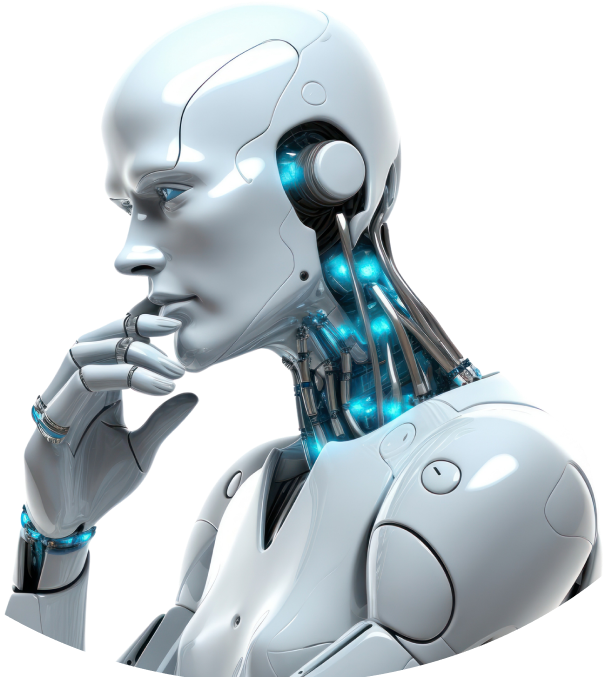
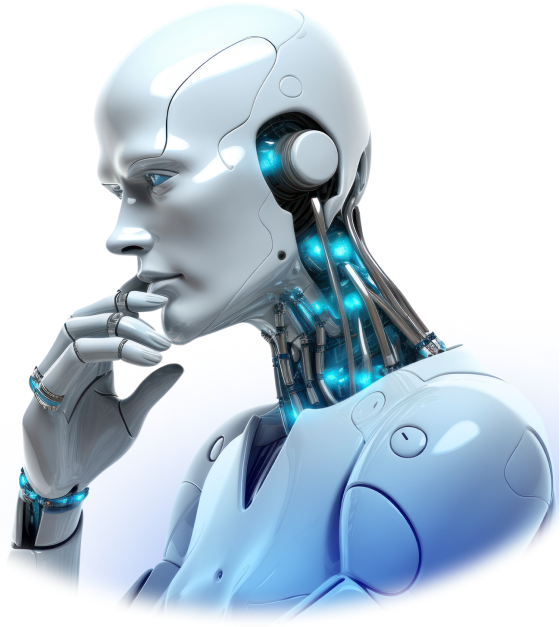
add section featutes fix hero

diff --git a/src/components/Hero.jsx b/src/components/Hero.jsx
@@ -1,28 +1,24 @@
-import CycleButton from "./CycleButton";
+import Button from "./Button";
+
 
 const Hero = () => {
   return (
-    <section id="home" className="relative">
-      <div className="absolute size-[500px] blur-[500px] bg-[#175CE5] top-[180px]" />
-      <div className="absolute size-[500px] blur-[500px] bg-[#FA00D2] top-[130px] left-[25%]" />
-      <div className="container py-16">
-        <div className="flex items-center  h-[50vh] relative">
+    <section id="home" className="pb-16  bg-hero bg-contain bg-center ">
+      {/* <div className="absolute size-[500px] blur-[500px] bg-[#175CE5] top-[180px]" /> */}
+      {/* <div className="absolute size-[300px] blur-[300px] bg-[#6c00fa] top-[50px] left-[25%] z-[1]" /> */}
+      <div className="container">
+        <div className="flex items-center py-10 bg-[url('./assets/hero.png')] bg-no-repeat bg-[right_center] bg-contain h-[70vh] ">
           <div className="max-w-[600px] w-full shrink-0">
             <h1 className="text-8xl mb-10 text-primary font-tektur">
               Secure
               <span className="text-secondary2 "> Your Digital </span>
               <span> World </span>
             </h1>
-            <p className="text-[36px] text-accent w-[470px] leading-[48px] mb-2">
+            <p className="text-[36px] text-primary w-[470px] leading-[48px] mb-10">
               with Cutting-Edge Cyber Security Solutions
             </p>
-            <div className="w-full flex justify-end">
-            
-            </div>
+            <Button  />
           </div>
-          <div className="w-[100%] h-[100%] relative" />
-          <div className='absolute top-0 -right-28 w-[100%] h-[100%] bg-[url("./assets/hero.png")] bg-no-repeat bg-[right_center] bg-contain' />
-          <div className="absolute size-[400px] blur-[340px] bg-[#175CE5] right-0" />
         </div>
       </div>
     </section>

diff --git a/src/components/About.jsx b/src/components/About.jsx
@@ -1,8 +1,29 @@
 
+import Button from './Button';
+
 const About = () => {
   return (
-    <div>About</div>
-  )
+    <section className="bg-dark  bg-no-repeat bg-contain bg-center h-[600px]">
+      {/* <div className="absolute  bg-face bg-[left_-250px_bottom_0] bg-no-repeat bg-contain h-[80%] w-[60%]" /> */}
+      <div className="container">
+        <div className="relative flex items-center">
+          <div className="absolute  bg-face bg-[left_-250px_bottom_0] bg-no-repeat bg-contain h-[80%] w-[60%]" />
+          <div className="py-[190px]">
+            <h2>Unrivaled Cybersecurity Excellence</h2>
+            <p>
+              At [Your Company Name], we redefine cybersecurity, ensuring
+              impenetrable digital defense. With a commitment to excellence, we
+              lead the industry with expert solutions. Our cutting-edge
+              technologies and personalized approach guarantee optimal
+              protection for your digital assets. Partner with us for
+              unparalleled cybersecurity expertise and fortified peace of mind."
+            </p>
+            <Button text="About Us" />
+          </div>
+        </div>
+      </div>
+    </section>
+  );
 }
 
 export default About

diff --git a/src/constants/index.js b/src/constants/index.js
@@ -1,3 +1,7 @@
+import star from '../assets/star.svg';
+import shield from '../assets/shield.svg';
+import send from '../assets/send.svg';
+
 export const navLinks = [
   {
     id: 'home',
@@ -20,6 +24,7 @@ export const navLinks = [
     href: '#solution'
   },
 ];
+
 export const hero = [
   {
     id: 'hero',
@@ -46,3 +51,25 @@ export const stats = [
     value: '7'
   }
 ];
+
+export const features = [
+  {
+    id: 'feature-1',
+    icon: star,
+    title: 'Expert Cybersecurity Services:',
+    content: 'We lead in providing expert cybersecurity services, ensuring the highest level of protection against modern digital threats.'
+  },
+  {
+    id: 'feature-2',
+    icon: shield,
+    title: 'Tailored Security Solutions:',
+    content: "Recognizing each organization's uniqueness, our cybersecurity solutions are crafted individually, considering your business specifics. "
+  },
+  {
+    id: 'feature-3',
+    icon: send,
+    title: 'Transparency and Results:',
+    content: 'Valuing transparency, we provide clear reports and real-time support, ensuring top-notch cybersecurity results for your business.'
+  }
+
+]

diff --git a/src/components/Features.jsx b/src/components/Features.jsx
@@ -1,8 +1,35 @@
+import { features } from '../constants';
+import { layout } from '../style';
+
+import Button from './Button';
+import FeatureCard from './FeatureCard';
+
 
 const Features = () => {
   return (
-    <div>Features</div>
-  )
+    <section id="features" >
+      <div className="container">
+        <div className={`flex gap-[30px] items-center ${layout.sectionImg}`}>
+          <div>
+            <h2 className="text-6xl max-w-[500px] uppercase font-light leading-[120%] text-accent mb-12">
+              Leading Cybersecurity Solutions for Digital Empowerment
+            </h2>
+            
+              <Button />
+            
+
+          </div>
+
+          <ul className="max-w-[500px] w-full gap-[30px] flex flex-1 flex-col">
+            {features.map((item) => (
+              <FeatureCard key={item.id} {...item} />
+              
+            ))}
+          </ul>
+        </div>
+      </div>
+    </section>
+  );
 }
 
 export default Features

diff --git a/src/components/Stats.jsx b/src/components/Stats.jsx
@@ -1,9 +1,25 @@
-
+import { stats } from "../constants";
 
 const Stats = () => {
   return (
-    <div>Stats</div>
-  )
+    <section className="pb-16">
+      <div className="container">
+        <ul className="flex flex-1 flex-wrap gap-[30px]">
+          {stats.map((stat) => (
+            <li
+              key={stat.id}
+              className=" flex flex-1  justify-center items-center px-2 py-5 rounded-[20px] bg-black-gradient"
+            >
+              <h2 className="text-primary mr-2 text-4xl font-semibold ">
+                {stat.value}
+              </h2>
+              <p className="text-accent uppercase text-sm">{stat.title}</p>
+            </li>
+          ))}
+        </ul>
+      </div>
+    </section>
+  );
 }
 
 export default Stats

diff --git a/tailwind.config.js b/tailwind.config.js
@@ -5,7 +5,7 @@ export default {
   theme: {
     extend: {
       colors: {
-        primary: '#E9EEF3',
+        primary: '#DEE9F6',
         secondary: '#08A4FA',
         secondary2: '#00f6ff',
         accent: '#A7E4F1',
@@ -16,7 +16,13 @@ export default {
       fontFamily: { 
       inter: ['Inter', 'sans-serif'],
       tektur: ['Tektur', 'sans-serif'],  
-      }
+      },
+      backgroundImage: {
+        'hero': "url('./assets/bg.jpg')",
+        'dark': "url('./assets/bg-dark.jpg')",
+        'face': "url('./assets/face.png')",
+      },
+
     },
     screens: {
       'xs': '480px',

diff --git a/src/components/FeatureCard.jsx b/src/components/FeatureCard.jsx
@@ -1,0 +1,14 @@
+
+const FeatureCard = ({icon, title, content, id}) => {
+  return (
+    <li key={id} className="text-primary flex flex-1 gap-[10px] p-5 feature-card rounded-[20px]">
+      <img src={icon} alt="icon" className="size-16 object-contain" />
+      <div>
+        <h3 className="text-lg font-medium max-w-[640px]">{title}</h3>
+        <p>{content}</p>
+      </div>
+    </li>
+  );
+}
+
+export default FeatureCard

diff --git a/src/App.jsx b/src/App.jsx
@@ -8,15 +8,15 @@ const App = () => {
     <div className="bg-bg w-full overflow-hidden">
       <Header />
       <main>
-      <Hero />
-      <Stats />
-      <Features />
-      <About />
-      <Testimonials />
+        <Hero />
+        <Stats />
+        <Features />
+        <About />
+        <Testimonials />
       </main>
-      <Footer /> 
+      <Footer />
     </div>
-  )
+  );
 }
 
 export default App 

diff --git a/src/index.css b/src/index.css
@@ -21,7 +21,7 @@
 :root {
   --black-gradient: linear-gradient(144.39deg,
       #ffffff -278.56%,
-      #6d6d6d -78.47%,
+      #0D0F2E -78.47%,
       #11101d 91.61%);
   --card-shadow: 0px 20px 100px -10px rgba(66, 71, 91, 0.1);
 }
@@ -58,7 +58,7 @@
 .bg-black-gradient {
   background: linear-gradient(144.39deg,
       #ffffff -278.56%,
-      #6d6d6d -78.47%,
+      #0D0F2E -78.47%,
       #11101d 91.61%);
 }
 

diff --git a/src/components/Button.jsx b/src/components/Button.jsx
@@ -1,0 +1,14 @@
+
+
+const Button = () => {
+  return (
+    <button
+      type="button"
+      className="py-[18px] px-9 rounded-[10px] bg-secondary2 text-bg text-base font-medium"
+    >
+      Get started
+    </button>
+  );
+}
+
+export default Button
